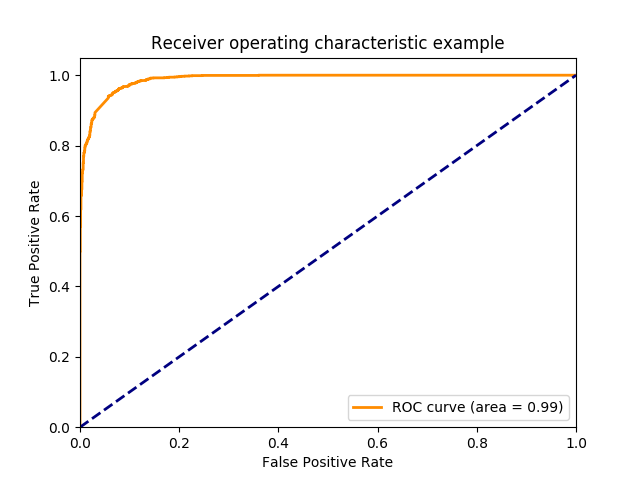
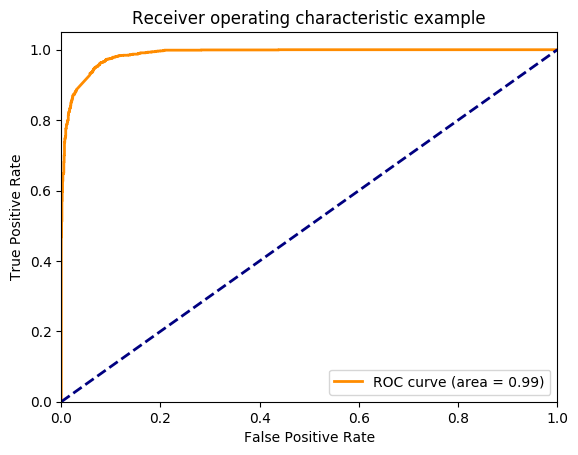
finish part e (Hard Margin, LSI)

diff --git a/Project1/main.py b/Project1/main.py
@@ -5,13 +5,18 @@ from sklearn.feature_extraction import text
 from sklearn import svm
 from sklearn.decomposition import NMF
 from sklearn.decomposition import TruncatedSVD
-import matplotlib.pyplot as plt
 from sklearn.metrics import roc_curve, auc
+from sklearn.metrics import confusion_matrix
+from sklearn.metrics import accuracy_score
+from sklearn.metrics import recall_score
+from sklearn.metrics import precision_score
 from nltk.stem.snowball import SnowballStemmer
 from nltk.tokenize import RegexpTokenizer
+import matplotlib.pyplot as plt
 import numpy as np
-import re
 import nltk
+import itertools
+import re
 
 nltk.download('punkt')
 nltk.download('stopwords')
@@ -239,13 +244,54 @@ class Project1(object):
 
         self.load8TestingData()
 
+        #
+        # LSI, Hard margin SVM
+        #
+
         lSVC = svm.LinearSVC(C=1000)
         print(self.XLSITraining.shape, len(self.yLSITraining))
         lSVC.fit(self.XLSITraining, self.yLSITraining)
-
         yScore = lSVC.decision_function(self.XLSITesting)
+
+        #plot ROC
         self.plot_ROC(yScore)
 
+        #plot confusion matrix
+        class_names = ['Com Tech', 'Recreation']
+        svm_pred = lSVC.predict(self.XLSITesting)
+        conf_mat = confusion_matrix(self.yLSITesting, svm_pred)
+        plt.figure()
+        self.plot_confusion_matrix(conf_mat, classname=class_names, title='Confusion matrix')
+        plt.savefig('fig/conf_mat_1000.png', bbox_inches='tight')
+        plt.figure()
+        self.plot_confusion_matrix(conf_mat, classname=class_names, normalize=True, 
+                                        title='Normalized confusion matrix')
+        plt.savefig('fig/conf_mat_norm_1000.png', bbox_inches='tight')
+        plt.show()
+
+        # accuracy
+        svm_accuracy = accuracy_score(self.yLSITesting, svm_pred)
+        print('SVM accuracy for LSI and Hard Margin is '+str(svm_accuracy))
+
+        # recall
+        svm_recall = recall_score(self.yLSITesting, svm_pred)
+        print('SVM recall for LSI and Hard Margin is '+str(svm_recall))
+
+        # precision
+        svm_precision = precision_score(self.yLSITesting, svm_pred)
+        print('SVM precision for LSI and Hard Margin is '+str(svm_precision))
+
+        #
+        # NMF, Hard margin SVM
+        #
+
+        #
+        # LSI, soft margin SVM
+        #
+
+        #
+        # NMF, soft margin SVM
+        #
 
     def plot_ROC(self, yScore):
         # Compute ROC curve and ROC area for each class
@@ -266,8 +312,32 @@ class Project1(object):
         plt.ylabel('True Positive Rate')
         plt.title('Receiver operating characteristic example')
         plt.legend(loc="lower right")
-        plt.savefig('fig/roc_1000.png')
+        plt.savefig('fig/roc_1000.png', bbox_inches='tight')
         plt.show()
+
+    # make confusion matrix plot
+    def plot_confusion_matrix(self, cmat, classname, normalize=False, title='Confusion matrix'):
+        cmap=plt.cm.Blues
+        plt.imshow(cmat, interpolation='nearest', cmap=cmap)
+        plt.title(title)
+        plt.colorbar()
+
+        tick_marks = np.arange(len(classname))
+        plt.xticks(tick_marks, classname, rotation=45)
+        plt.yticks(tick_marks, classname)
+
+        if normalize:
+            cmat = cmat.astype('float') / cmat.sum(axis=1)[:, np.newaxis]
+
+        print(cmat)
+
+        thresh = cmat.max() / 2.
+        for i, j in itertools.product(range(cmat.shape[0]), range(cmat.shape[1])):
+            plt.text(j, i, cmat[i, j], horizontalalignment="center", color="white" if cmat[i, j] > thresh else "black")
+
+        plt.tight_layout()
+        plt.ylabel('True label')
+        plt.xlabel('Predicted label')
 
 def main():
     # debug mytokenizer (spam)
@@ -283,7 +353,7 @@ def main():
     # p.problemA()
     # p.problemB()
     # p.problemC()
-    p.problemD()
+    # p.problemD()
     p.problemE()
 
 
